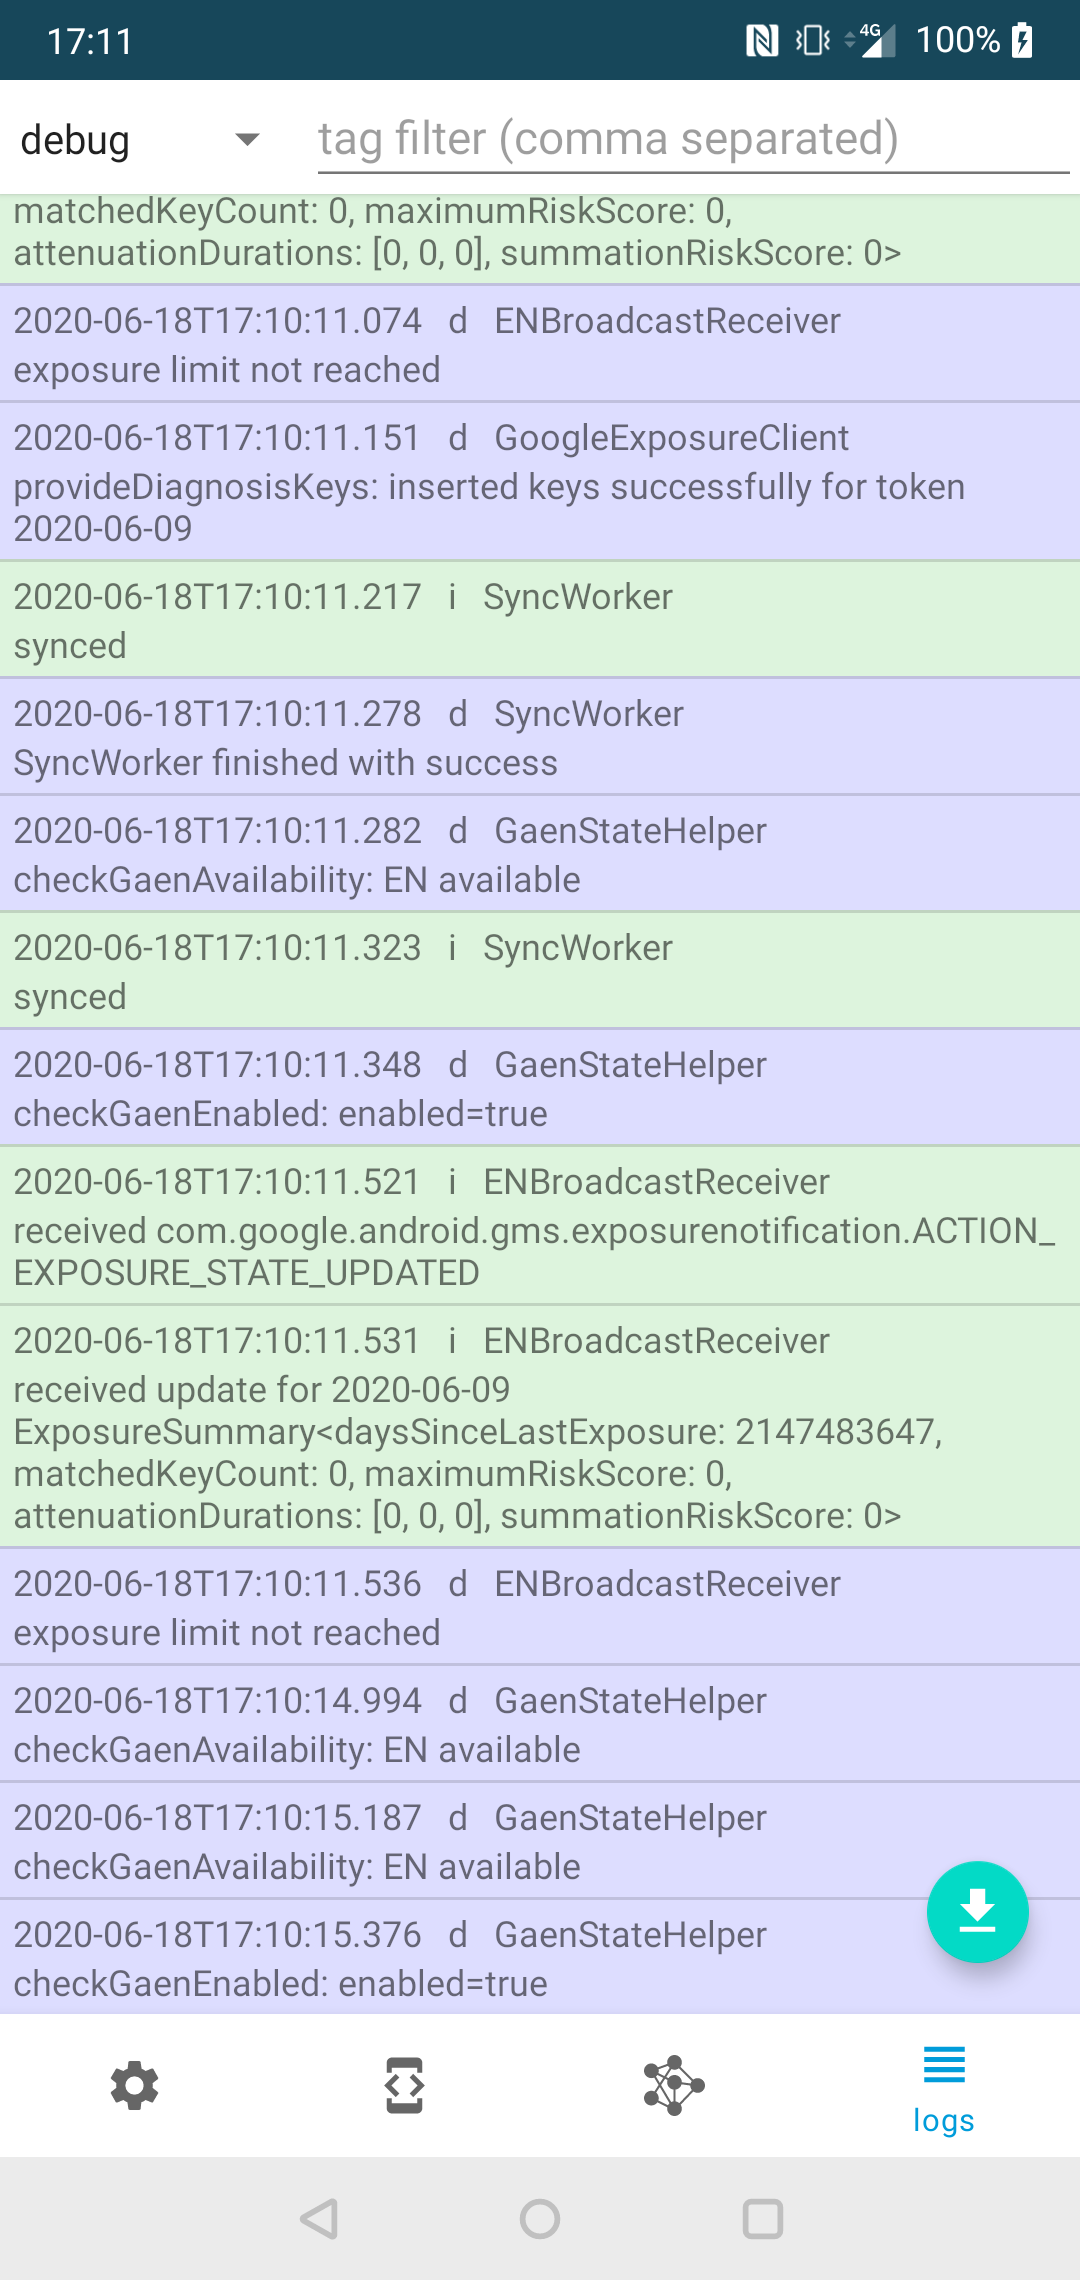
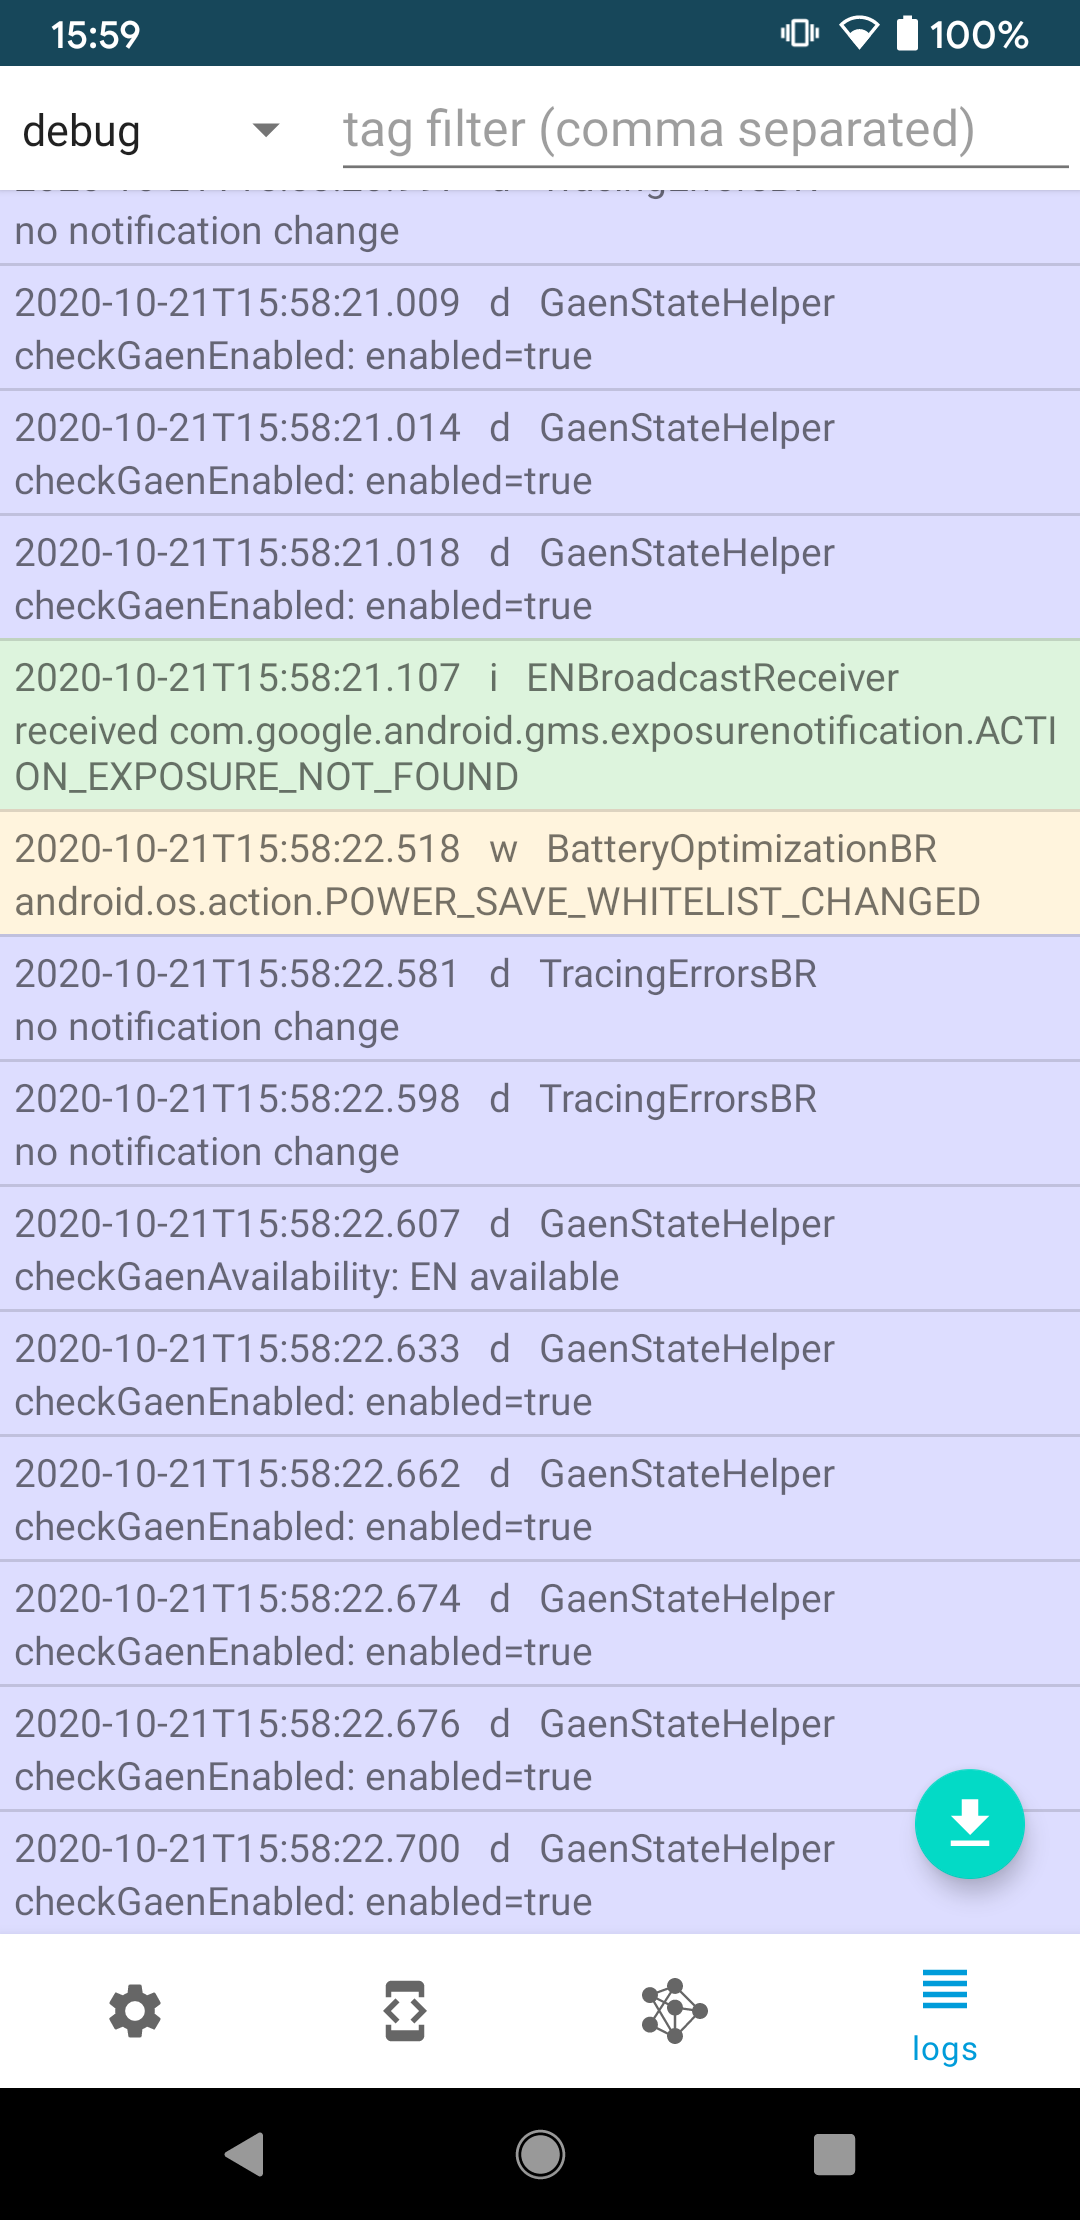
fix typos and update screenshots of calibration app

diff --git a/README.md b/README.md
@@ -12,7 +12,7 @@ DP-3T is a free-standing effort started at EPFL and ETHZ that produced this prot
 ## Introduction
 This is the implementation of the DP-3T protocol using the [Exposure Notification](https://www.google.com/covid19/exposurenotifications/) Framework of Apple/Google. Only approved government public health authorities can access the APIs. Therefore, using this SDK will result in an API error unless either your account is whitelisted as test account or your app is approved by Google and signed with the production certificate.
 
-As of version 2.0 of this SDK we use version features added in v1.5 of the Google framework and for iOS features that were added in v2.0 of the Apple framework. Make sure to use also use at least version 2.0 of the [dp3t-sdk-backend](https://github.com/DP-3T/dp3t-sdk-backend) to be compatible with the DP3T Android SDK 2.0. See [EXPOSURE_NOTIFICATION_API_USAGE.md](EXPOSURE_NOTIFICATION_API_USAGE.md) for a detailed description of how we use the Google EN Api.
+As of version 2.0 of this SDK we use features added in v1.5 of the Google framework and for iOS features that were added in v2.0 of the Apple framework. Make sure to also use at least version 2.0 of the [dp3t-sdk-backend](https://github.com/DP-3T/dp3t-sdk-backend) to be compatible with the DP3T Android SDK 2.0. See [EXPOSURE_NOTIFICATION_API_USAGE.md](EXPOSURE_NOTIFICATION_API_USAGE.md) for a detailed description of how we use the Google EN Api.
 
 Our prestandard solution that is not using the Apple/Google framework can be found under the [tag prestandard](https://github.com/DP-3T/dp3t-sdk-android/tree/prestandard).
 
